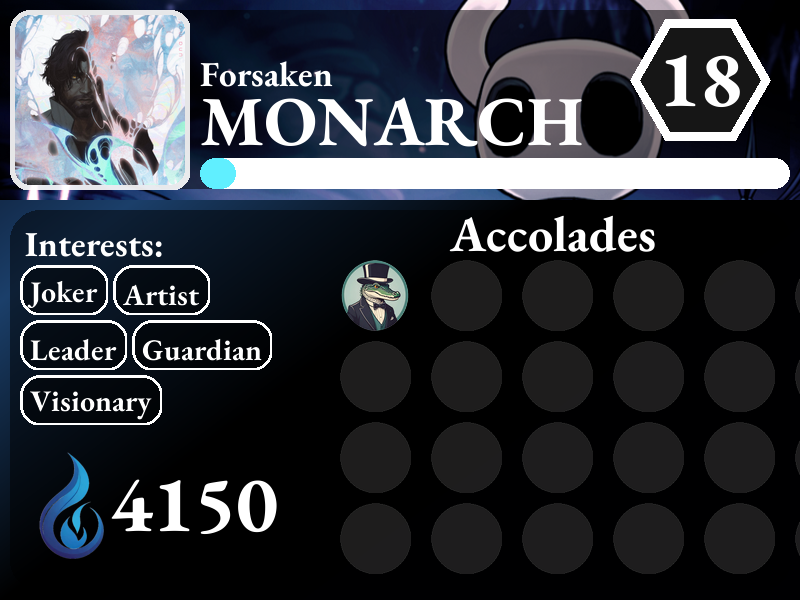
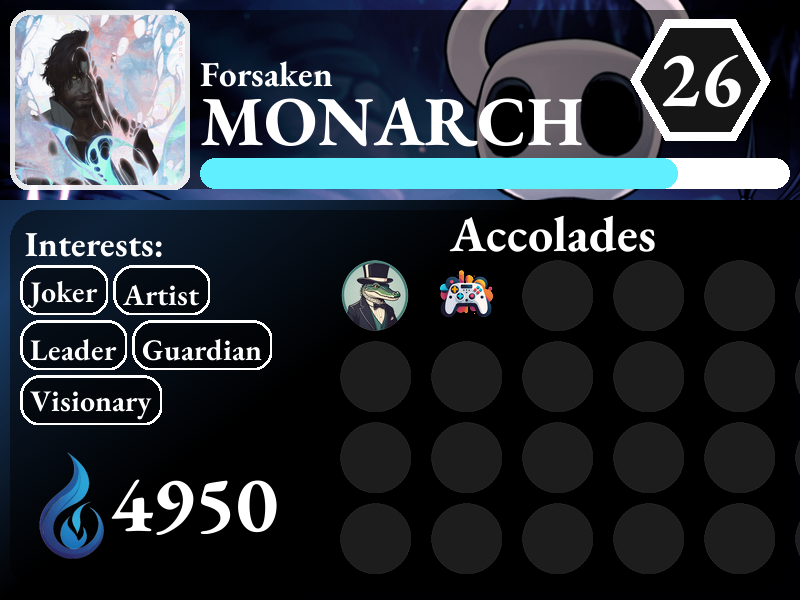
add game award badge

diff --git a/data/configure_database.py b/data/configure_database.py
@@ -135,6 +135,7 @@ def start_database(env):
         (400000, 'profile_color', 'white', 'default', 'white.', 'common', 0)
     )
 
+    #badges
     cursor.execute(
         '''
         INSERT OR IGNORE INTO items (item_id, item_type, item_name, item_shop, description, rarity, price)
@@ -142,6 +143,15 @@ def start_database(env):
         ''',
         (600000, 'badge', 'Starting Out', 'default', 'The secret of getting ahead is getting started', 'common', 0)
     )
+
+    cursor.execute(
+        '''
+        INSERT OR IGNORE INTO items (item_id, item_type, item_name, item_shop, description, rarity, price)
+        VALUES (?, ?, ?, ?, ?, ?, ?)
+        ''',
+        (600001, 'badge', 'Game Award 2024', 'Awarded during the 2024 game awards', 'common', 0)
+    )
+
 
 
     #intrests
